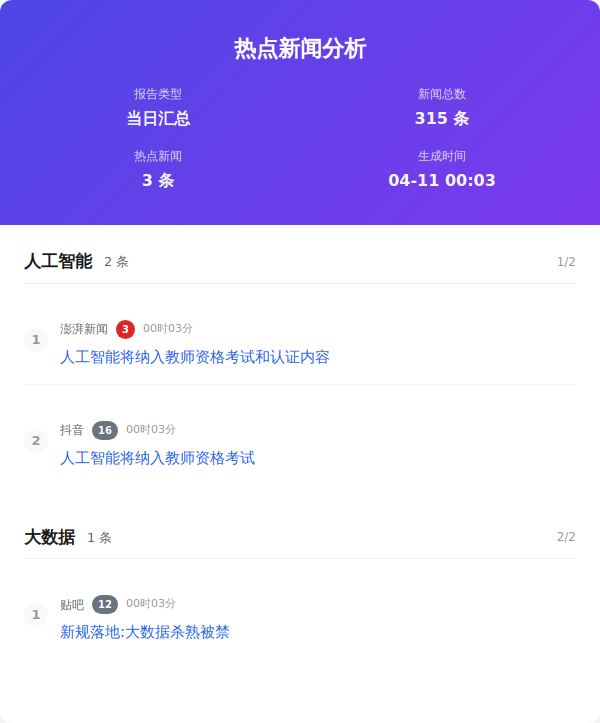
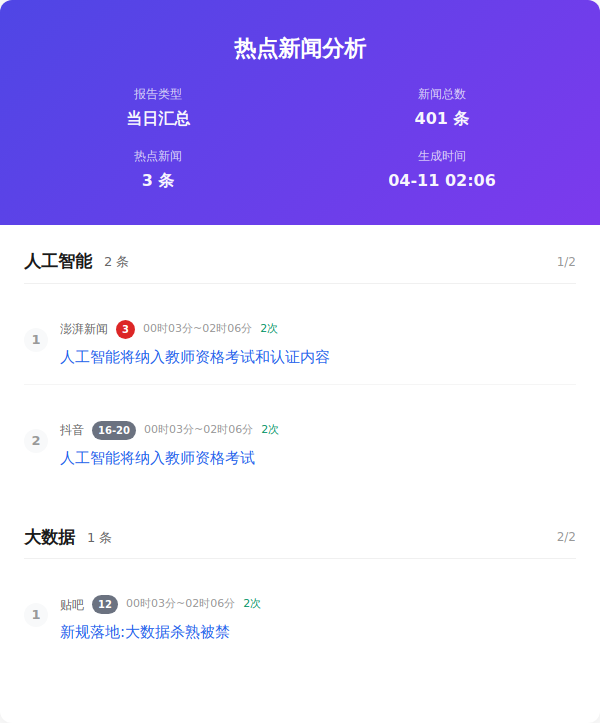
Auto update by GitHub Actions at Sat Apr 11 02:06:46 CST 2026

diff --git a/output/2026年04月11日/html/当日汇总.html b/output/2026年04月11日/html/当日汇总.html
@@ -357,7 +357,7 @@
                     </div>
                     <div class="info-item">
                         <span class="info-label">新闻总数</span>
-                        <span class="info-value">315 条</span>
+                        <span class="info-value">401 条</span>
                     </div>
                     <div class="info-item">
                         <span class="info-label">热点新闻</span>
@@ -365,7 +365,7 @@
                     </div>
                     <div class="info-item">
                         <span class="info-label">生成时间</span>
-                        <span class="info-value">04-11 00:03</span>
+                        <span class="info-value">04-11 02:06</span>
                     </div>
                 </div>
             </div>
@@ -383,7 +383,7 @@
                         <div class="news-number">1</div>
                         <div class="news-content">
                             <div class="news-header">
-                                <span class="source-name">澎湃新闻</span><span class="rank-num top">3</span><span class="time-info">00时03分</span>
+                                <span class="source-name">澎湃新闻</span><span class="rank-num top">3</span><span class="time-info">00时03分~02时06分</span><span class="count-info">2次</span>
                             </div>
                             <div class="news-title"><a href="https://m.thepaper.cn/newsDetail_forward_32939934" target="_blank" class="news-link">人工智能将纳入教师资格考试和认证内容</a>
                             </div>
@@ -393,7 +393,7 @@
                         <div class="news-number">2</div>
                         <div class="news-content">
                             <div class="news-header">
-                                <span class="source-name">抖音</span><span class="rank-num ">16</span><span class="time-info">00时03分</span>
+                                <span class="source-name">抖音</span><span class="rank-num ">16-20</span><span class="time-info">00时03分~02时06分</span><span class="count-info">2次</span>
                             </div>
                             <div class="news-title"><a href="https://www.douyin.com/hot/2461467" target="_blank" class="news-link">人工智能将纳入教师资格考试</a>
                             </div>
@@ -412,7 +412,7 @@
                         <div class="news-number">1</div>
                         <div class="news-content">
                             <div class="news-header">
-                                <span class="source-name">贴吧</span><span class="rank-num ">12</span><span class="time-info">00时03分</span>
+                                <span class="source-name">贴吧</span><span class="rank-num ">12</span><span class="time-info">00时03分~02时06分</span><span class="count-info">2次</span>
                             </div>
                             <div class="news-title"><a href="https://tieba.baidu.com/hottopic/browse/hottopic?topic_id=28353059&amp;amp;topic_name=%E6%96%B0%E8%A7%84%E8%90%BD%E5%9C%B0%3A%E5%A4%A7%E6%95%B0%E6%8D%AE%E6%9D%80%E7%86%9F%E8%A2%AB%E7%A6%81" target="_blank" class="news-link">新规落地:大数据杀熟被禁</a>
                             </div>